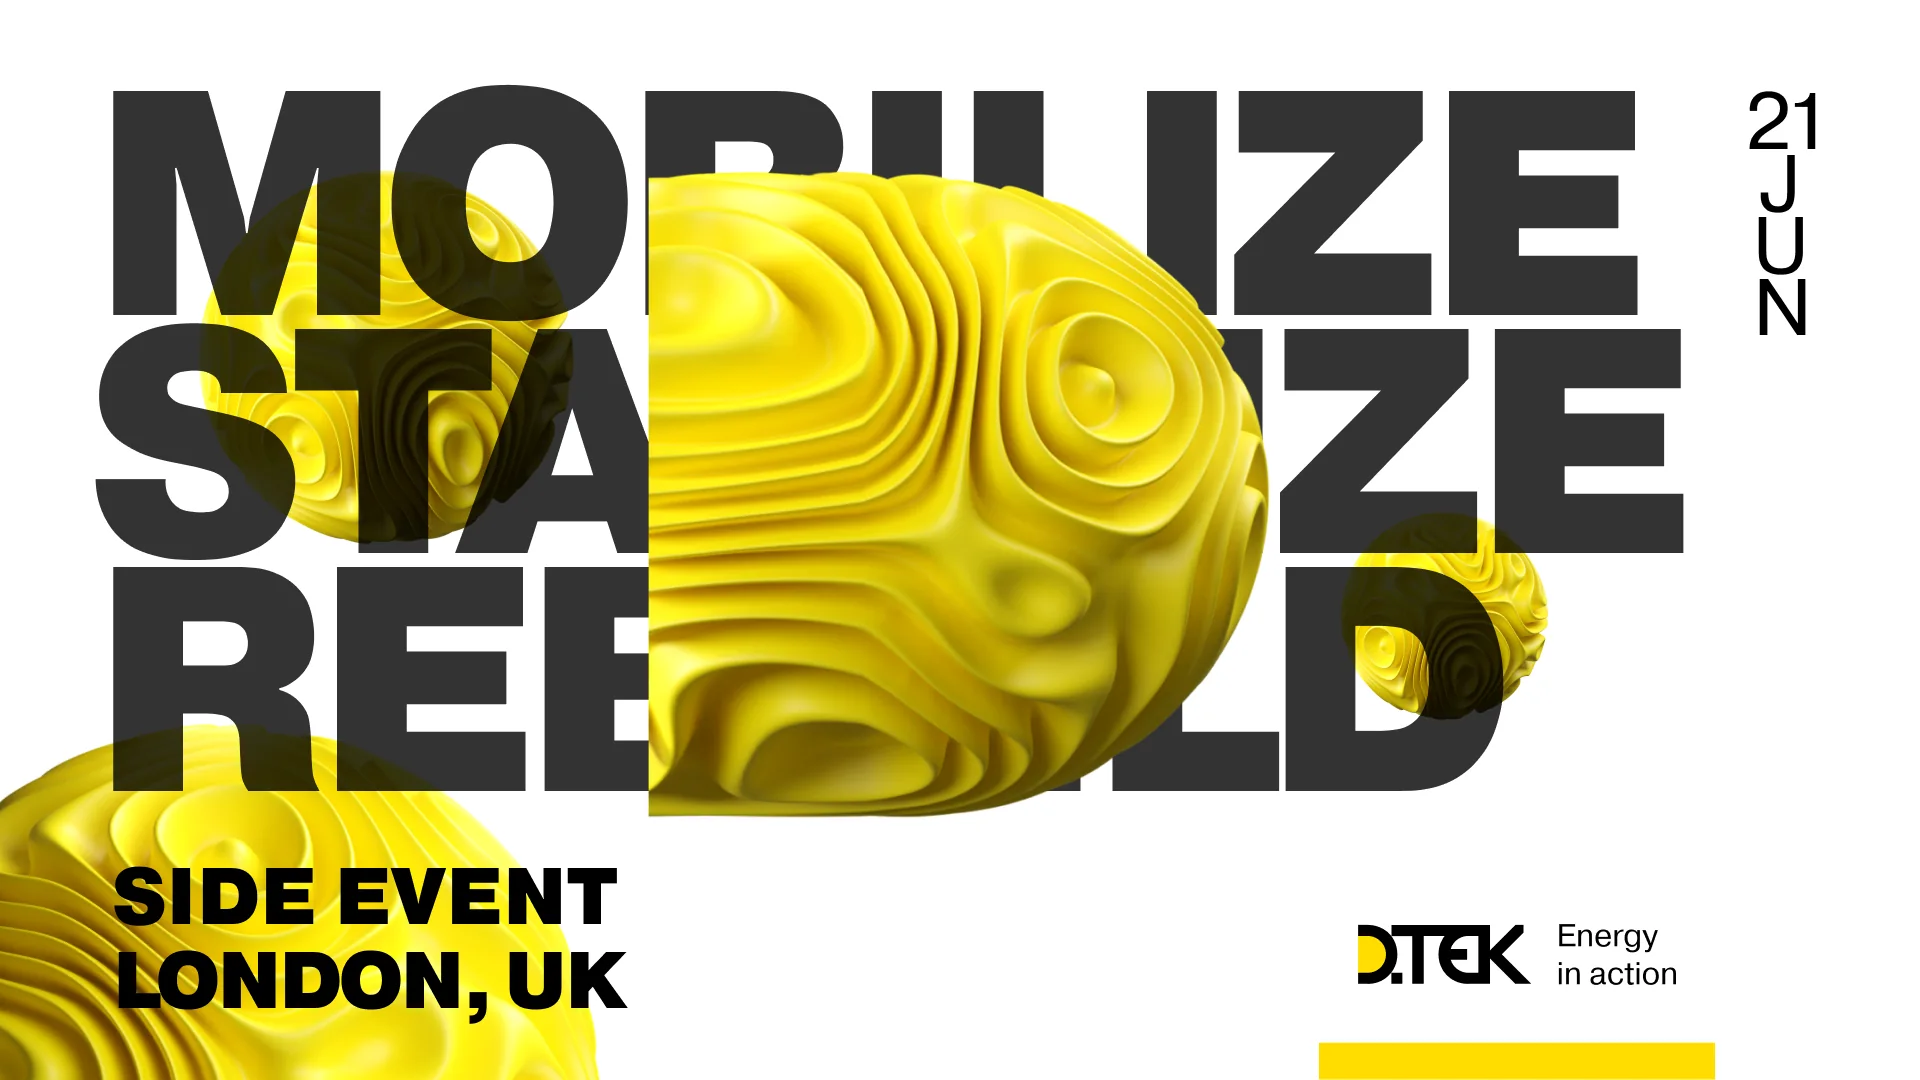
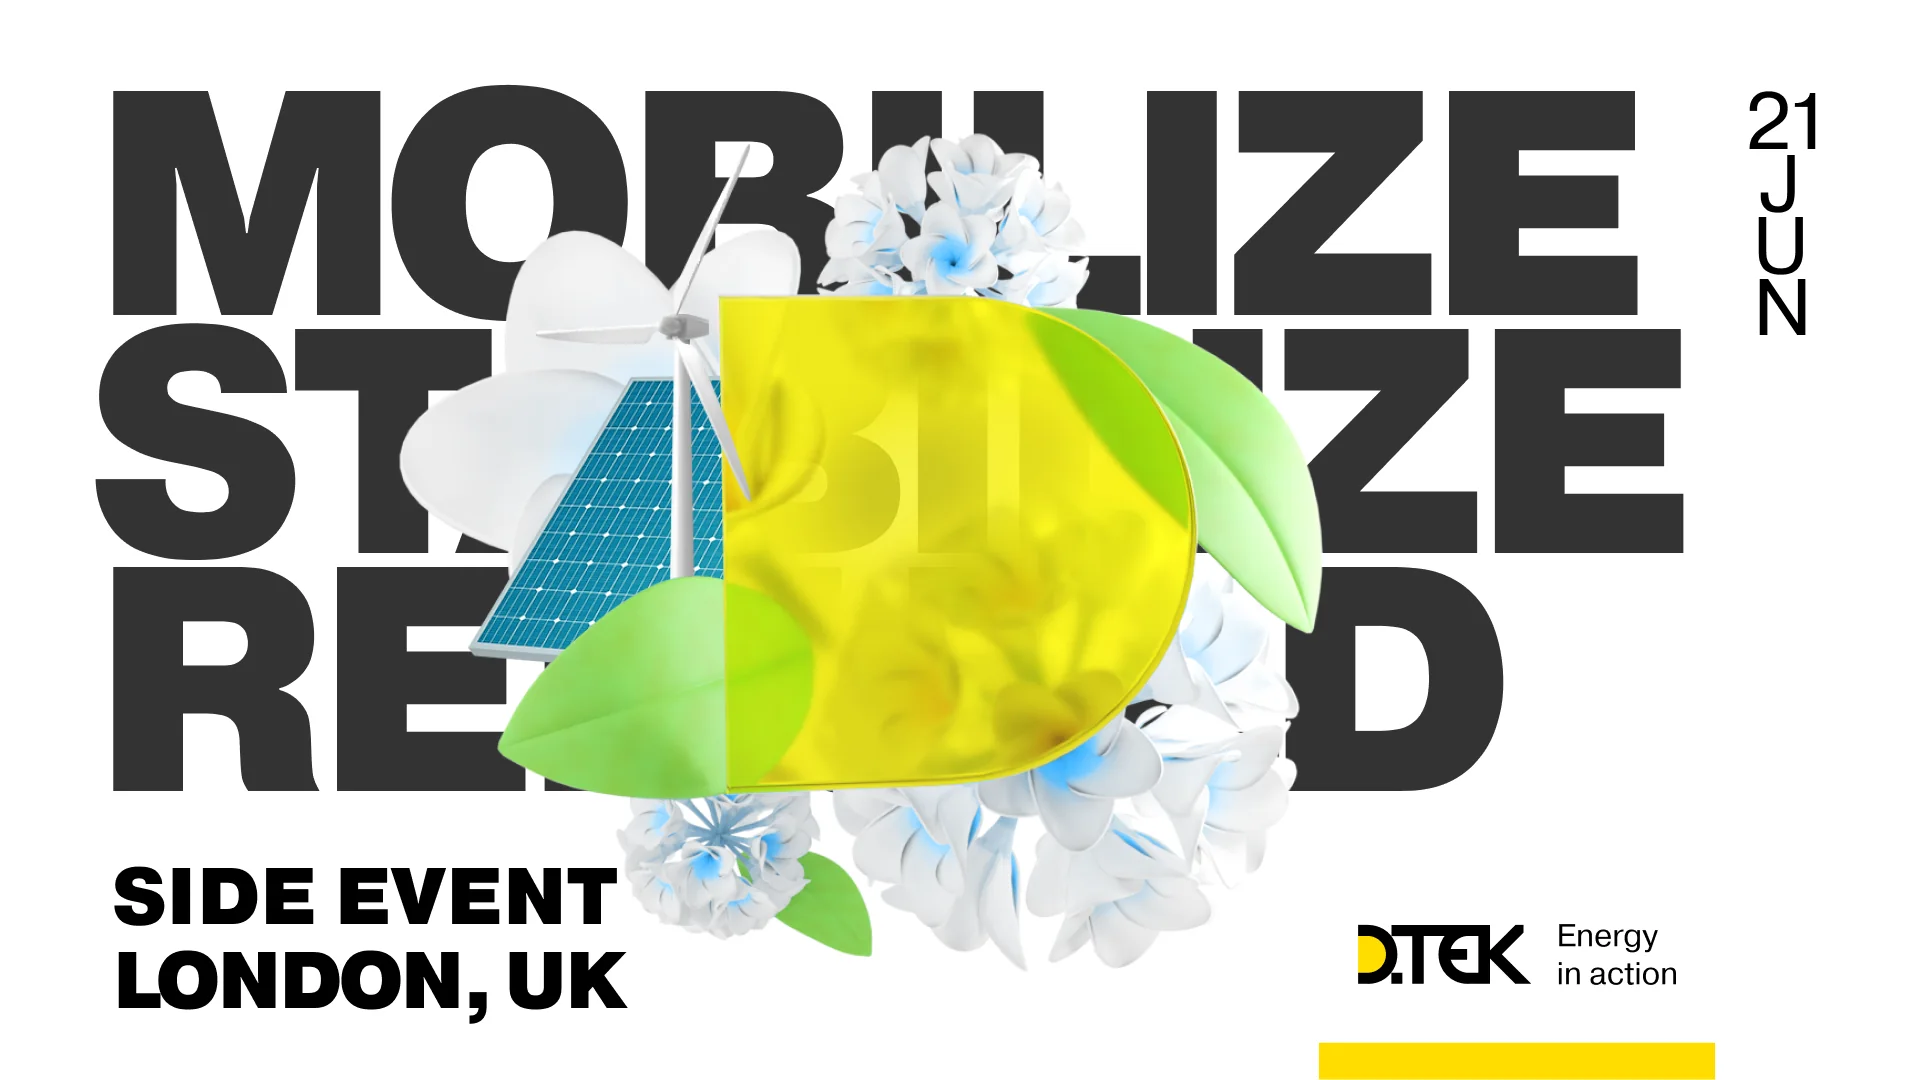
London key visuals: island visual goes first
Claude-Session: https://claude.ai/code/session_015TFhS8os7AWGrdWdPo6Nzt

diff --git a/index.html b/index.html
@@ -831,9 +831,9 @@
           <div class="pg-split">
           <figure class="pg-shots sh-below" style="background:#fff" tabindex="0" role="group" aria-roledescription="carousel" aria-label="Візуали side event ДТЕК: гортайте стрілками або свайпом · DTEK side event visuals: use arrows or swipe">
             <div class="sh-track">
-              <img src="ai-london-1.webp" width="1920" height="1080" alt="Візуал ДТЕК «Mobilize, Stabilize»: літера D з квітами, вітряком і сонячною панеллю · DTEK side event key visual, London" loading="lazy" decoding="async" draggable="false">
-              <img src="ai-london-2.webp" width="1920" height="1080" alt="Візуал ДТЕК «Mobilize, Stabilize»: жовті об’ємні сфери · DTEK side event key visual, London" loading="lazy" decoding="async" draggable="false">
-              <img src="ai-london-3.webp" width="1920" height="1080" alt="Візуал ДТЕК «Mobilize, Stabilize»: острів-місто у жовтій півсфері · DTEK side event key visual, London" loading="lazy" decoding="async" draggable="false">
+              <img src="ai-london-1.webp" width="1920" height="1080" alt="Візуал ДТЕК «Mobilize, Stabilize»: острів-місто у жовтій півсфері · DTEK side event key visual, London" loading="lazy" decoding="async" draggable="false">
+              <img src="ai-london-2.webp" width="1920" height="1080" alt="Візуал ДТЕК «Mobilize, Stabilize»: літера D з квітами, вітряком і сонячною панеллю · DTEK side event key visual, London" loading="lazy" decoding="async" draggable="false">
+              <img src="ai-london-3.webp" width="1920" height="1080" alt="Візуал ДТЕК «Mobilize, Stabilize»: жовті об’ємні сфери · DTEK side event key visual, London" loading="lazy" decoding="async" draggable="false">
             </div>
             <div class="s3d-ui sh-zoom">
               <button type="button" class="s3d-btn s3d-ico" data-sh="out" aria-label="Zoom out · Зменшити" disabled>&minus;</button>
